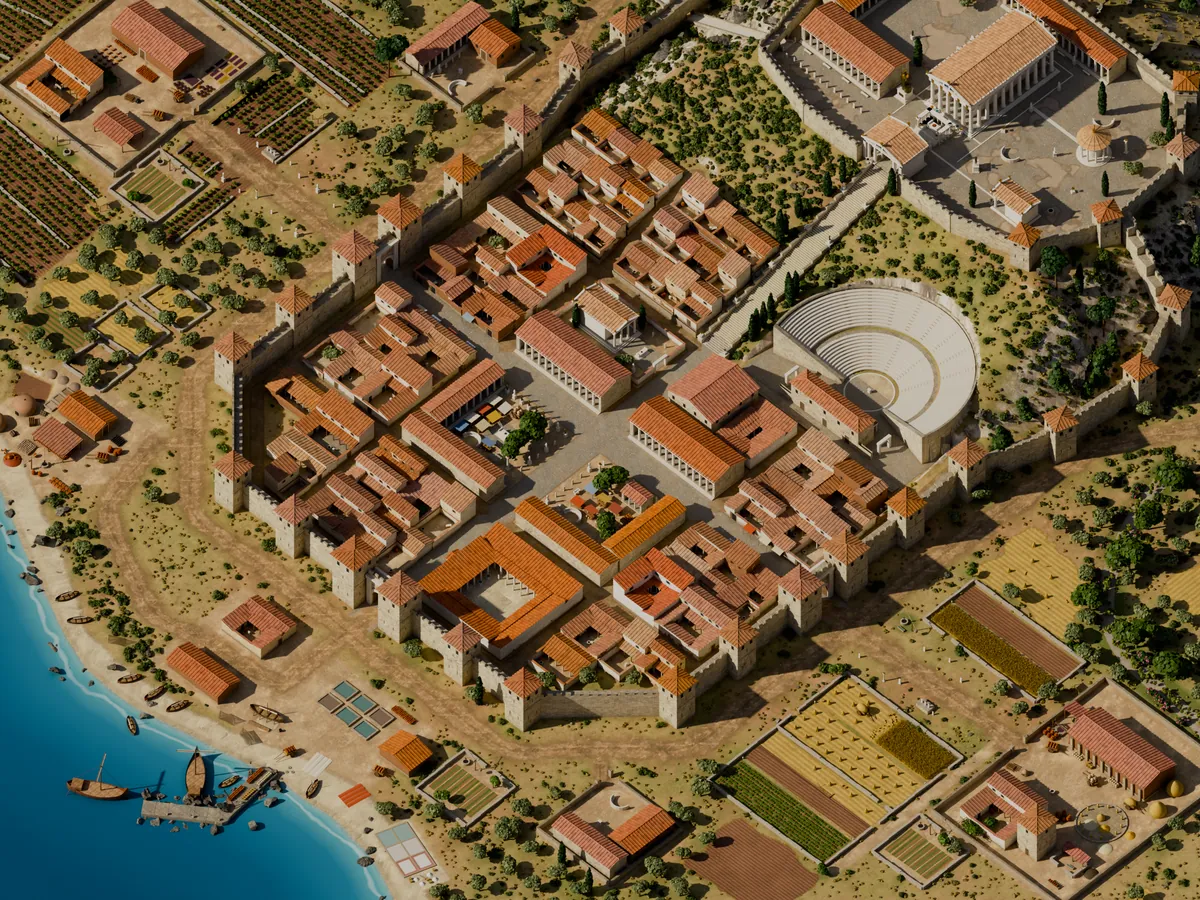
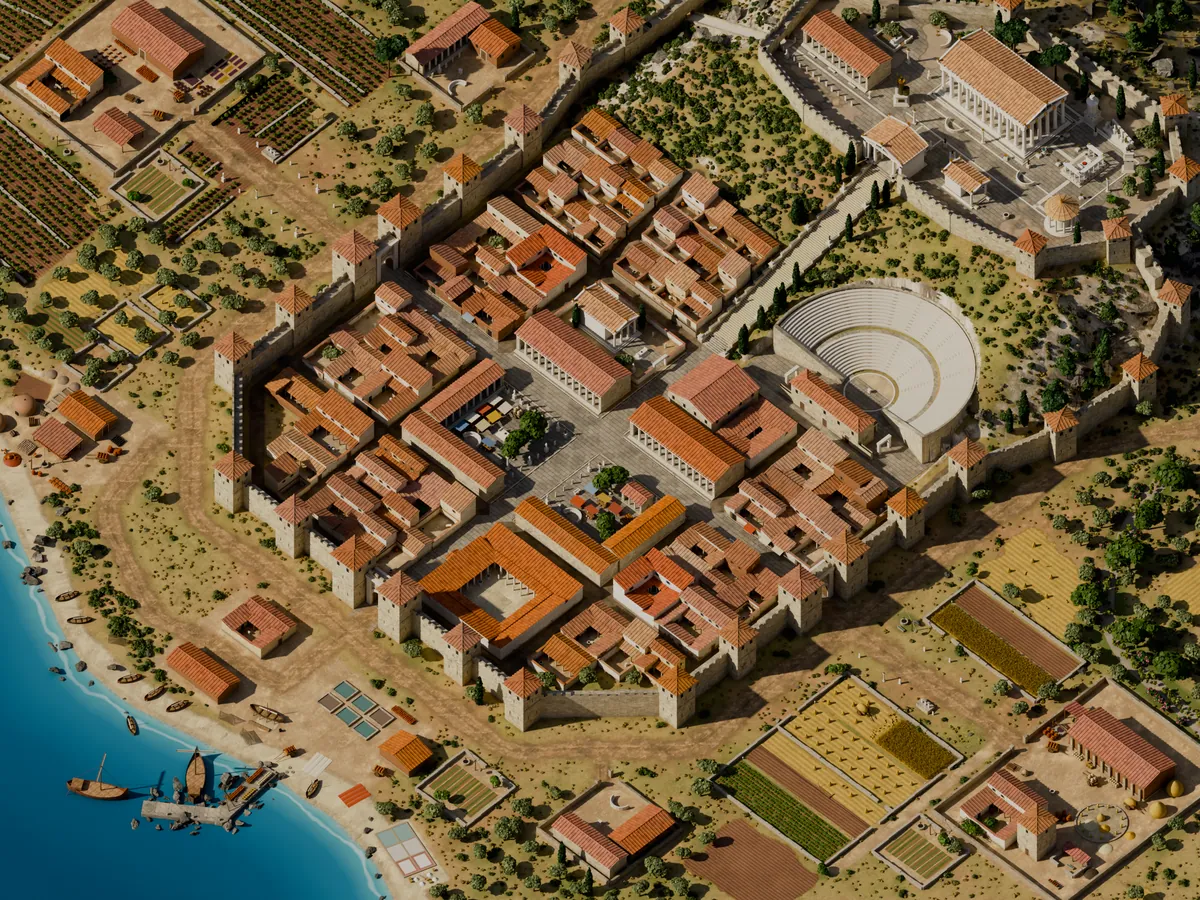
better roads

diff --git a/world/polis/land.py b/world/polis/land.py
@@ -399,39 +399,62 @@ def shore_material():
     return _finish(s, col, s.rng(s.madd(s.sub(fine, .5), .4, c1[0]), .4, .75), bump=.3)
 
 def road_material():
-    """Roads and paving: natural mud tracks with wandering grassy edges and ruts, packed earth in the streets, slabs on the avenues."""
+    """Roads and paving: mud tracks with wandering edges and ruts; rammed-earth/gravel secondary streets; dressed rectangular ashlar flagstones on main avenues and the agora."""
     s = Sh("roads"); M = s.mix; m = _maps(s); rd, c2 = m["road"], m["c2"]; fine = s.noise(.9, 4, .7)
     trod = s.tint(s.tex("dirt_aerial_03", 11), "dirt_aerial_03", lin("#bfa278"), raw=.2)
+
+    # Dressed rectangular limestone/marble flagstones in running-bond courses (for main avenues & agora plaza)
+    pw_f = s.mixv(.025, s.pos, s.noise(3.2, 3, .6, out="Color"))
+    bc, bf = s.brick(pw_f, 1.8, 1.1, .022, lin("#ded5c2"), lin("#c6bca6"), lin("#7b715f"), offset=.5, bias=.05, smooth=.12)
+    grain = s.tint(s.tex2("large_floor_tiles_02", 6.8), "large_floor_tiles_02", lin("#d5ccb8"), raw=.22, gain=1.35)
+    flag = M(.38, bc, s.mix(1.0, bc, grain, "MULTIPLY", clamp=False))
+    # Subtle weathering/dust in occasional patches so it looks lived-in, not sterile
+    flag_dust = s.tint(s.tex("dry_ground_rocks", 7.5), "dry_ground_rocks", lin("#c4b79b"), raw=.3)
+    flag = M(s.rng(s.noise(.22, 3, .65, w=5.8), .58, .78, 0, .28), flag, flag_dust)
+    h_flag = s.add(s.mul(s.sub(1.0, bf), .75), s.mul(s.lum(grain), .25))
+
+    # Rammed-earth & crushed-gravel for residential side streets and alleys
+    gravel_tex = s.tint(s.tex("gravelly_sand", 3.5), "gravelly_sand", lin("#b5a589"), raw=.25)
+    earth_tex = s.tint(s.tex("dry_ground_rocks", 7.5), "dry_ground_rocks", lin("#baa98b"), raw=.3)
+    pebble_tex = s.tint(s.tex("stony_dirt_path", 4.5), "stony_dirt_path", lin("#a99a7f"), raw=.22)
+    street = M(s.rng(s.noise(.32, 3, .65, w=4.4), .38, .66), earth_tex, gravel_tex)
+    street = M(s.rng(s.noise(.48, 3, .7, w=2.9), .46, .72, 0, .48), street, pebble_tex)
+    # Faint parallel wheel-rut tracks worn into wider secondary lanes
+    rut_st = s.rng(s.math("ABSOLUTE", s.sub(s.madd(s.sub(s.noise(1.6, 3, .6, w=5.1), .5), .12, rd[1]), .34)), .14, .02, 0, .28)
+    street = M(rut_st, street, s.mix(1.0, street, (.78, .73, .66), "MULTIPLY"))
+    # Slight damp/organic edge darkening along street margins
+    street = M(s.mul(s.rng(rd[1], .74, .98), s.rng(s.noise(1.6, 3, .7, w=6.1), .48, .72, 0, .35)), street, lin("#8f8864"))
+    h_street = s.add(s.add(s.mul(s.lum(gravel_tex), .45), s.mul(s.noise(4.5, 4, .75), .35)), s.mul(s.sub(1.0, rut_st), .2))
+
+    # Edge profiles: mud tracks wander widely; secondary dirt streets have soft natural edges; paved avenues stay crisp at their curbs
     wig = s.add(s.mul(s.sub(s.noise(.12, 3, .6, w=1.3), .5), 5.0), s.add(s.mul(s.sub(s.noise(.45, 4, .65, w=2.7), .5), 3.2), s.mul(s.sub(s.noise(1.9, 4, .7, w=4.1), .5), 1.4)))
-    soft = s.rng(rd[2], 0, .45, 1.0, .06)                                                 # mud road edges wander; streets & paving stay straight
+    soft = s.mixf(s.rng(rd[2], .75, .9), s.rng(rd[2], 0, .45, 1.0, .28), .04)
     e = s.madd(wig, soft, rd[0])
     is_mud = s.rng(rd[2], .05, .35, 1.0, 0.0)
+    is_av = s.rng(rd[2], .75, .92, 0.0, 1.0)
     e_mud = s.madd(s.mul(s.sub(s.noise(.75, 3, .7, w=9.2), .48), 2.2), is_mud, e)
-    on = s.mixf(is_mud, s.rng(e, .3, -.3), s.rng(e_mud, 1.1, -.7))
-    verge = s.mul(s.mul(s.rng(e_mud, 2.8, .1, 0, .55), s.rng(s.noise(.35, 3, .6, w=6.3), .35, .68)), s.rng(rd[2], 0, .5, 1.0, .2))
+    e_st = s.madd(s.mul(s.sub(s.noise(1.2, 3, .7, w=5.4), .5), .9), 1.0, e)
+    on_town = s.mixf(is_av, s.rng(e_st, .55, -.35), s.rng(e, .18, -.18))
+    on = s.mixf(is_mud, on_town, s.rng(e_mud, 1.1, -.7))
+    verge = s.mul(s.mul(s.rng(e_st, 2.0, .05, 0, .55), s.rng(s.noise(.35, 3, .6, w=6.3), .35, .68)), s.mul(s.sub(1.0, is_av), s.rng(rd[2], 0, .5, 1.0, .42)))
+
     mud_a = s.tint(s.tex("dirt_aerial_02", 8), "dirt_aerial_02", lin("#bfa277"), raw=.2)
     dirt = M(s.rng(s.noise(.25, 3, .65, w=2.1), .38, .65), mud_a, trod)
     gravel = s.tint(s.tex("stony_dirt_path", 5), "stony_dirt_path", lin("#bda47d"), raw=.2)
     dirt = M(s.rng(s.noise(.22, 3, .65, w=3.7), .48, .66, 0, .48), dirt, gravel)
     rut = s.rng(s.math("ABSOLUTE", s.sub(s.madd(s.sub(s.noise(1.8, 3, .6, w=5.1), .5), .22, rd[1]), .4)), .20, .03, 0, .38)
     dirt = M(rut, dirt, s.mix(1.0, dirt, (.68, .60, .52), "MULTIPLY"))
-    st_earth = s.tint(s.tex("dry_ground_rocks", 7.5), "dry_ground_rocks", lin("#c5ad84"), raw=.35)
-    st_cob = s.tint(s.tex("cobblestone_large_01", 7.0), "cobblestone_large_01", lin("#c4b79d"), raw=.45, gain=1.4)
-    street = M(s.rng(s.noise(.38, 3, .7, w=4.4), .46, .66, 0, .65), st_earth, st_cob)
-    drain_d = s.madd(s.sub(s.noise(1.5, 3, .6, w=3.1), .5), .12, rd[1])
-    street = M(s.mul(s.rng(drain_d, .14, .03, 0, .42), s.rng(s.noise(.35, 3, .6, w=1.7), .35, .65)), street, s.mix(1.0, street, (.62, .57, .5), "MULTIPLY"))
-    street = M(s.mul(s.rng(rd[1], .72, .98), s.rng(s.noise(1.6, 3, .7, w=6.1), .48, .72, 0, .38)), street, lin("#8d885f"))
-    slabs = s.tint(s.tex("stone_tiles_02", 7.2), "stone_tiles_02", lin("#cfc4ab"), raw=.35, gain=1.9)
-    slabs = M(s.rng(s.noise(.28, 3, .6, w=5.8), .4, .68, 0, .55), slabs, st_cob)
-    pav = M(s.rng(s.noise(.24, 3, .65, w=3.4), .46, .72, 0, .52), slabs, st_earth)
-    slabs = M(s.rng(s.noise(.35, 3, .7, w=8.8), .48, .72, 0, .58), slabs, street)         # earth trodden over the slabs in patches
-    rc = M(s.rng(rd[2], .2, .35), dirt, street); rc = M(s.rng(rd[2], .7, .85), rc, slabs)
-    paved = s.rng(s.madd(fine, .2, c2[0]), .45, .65)                                       # paving laid by builders: courts, the agora's margins, the sanctuary
-    col = M(on, trod, rc); col = M(s.mul(paved, s.sub(1.0, on)), col, pav)
-    crown = s.mul(s.rng(s.madd(s.sub(s.noise(1.2, 3, .65, w=7.7), .5), 1.1, rd[1]), .18, -.04, 0, .55), s.rng(rd[2], .1, .3, 1.0, 0.0))   # grass down the middle of a cart road
+
+    rc = M(s.rng(rd[2], .2, .35), dirt, street); rc = M(s.rng(rd[2], .75, .9), rc, flag)
+    paved = s.rng(s.madd(fine, .12, c2[0]), .45, .65)                                       # paving laid by builders: agora plaza, stoa aprons, sanctuary
+    col = M(on, trod, rc); col = M(s.mul(paved, s.sub(1.0, on)), col, flag)
+    crown = s.mul(s.rng(s.madd(s.sub(s.noise(1.2, 3, .65, w=7.7), .5), 1.1, rd[1]), .18, -.04, 0, .55), s.rng(rd[2], .1, .3, 1.0, 0.0))
     a = s.maxf(s.maxf(s.mul(on, s.sub(1.0, crown)), verge), paved)
-    hgt = s.add(s.mul(s.noise(.48, 4, .75), .55), s.mul(s.noise(1.5, 4, .7), .45))
-    return _finish(s, col, a, rough=.93, bump=.95, height=hgt)
+    h_town = s.mixf(s.maxf(is_av, paved), h_street, h_flag)
+    hgt = s.add(s.mul(s.noise(.48, 4, .75), .35), s.mul(s.noise(1.5, 4, .7), .25))
+    hgt = s.mixf(s.maxf(s.sub(1.0, is_mud), paved), hgt, s.add(s.mul(hgt, .2), s.mul(h_town, .8)))
+    rough = s.rng(s.add(s.mul(s.noise(2.8, 3, .6), .5), s.mul(s.lum(gravel_tex), .5)), .2, .8, .85, .96)
+    return _finish(s, col, a, rough=rough, bump=.95, height=hgt)
 
 def sea_material():
     s = Sh("sea")

diff --git a/world/polis/mats.py b/world/polis/mats.py
@@ -78,22 +78,18 @@ def m_marble(key, par):
     return s.surface(s.bsdf(col, .5, s.bump(s.noise(22, 3, .6), .08, .02)))
 
 def m_paving(key, par):
-    """Weathered stone flags: uneven joints, swept dust, lichen, and worn relief across courts and stylobates."""
-    s = Sh(key); base = col_of(par, "#cdc3ac")
-    tx = s.tex2("stone_tiles_02", 7.0); tx2 = s.tex2("large_floor_tiles_02", 6.8)
-    c_poly = s.tint(tx, "stone_tiles_02", base, raw=.3, gain=1.7)
-    c_slab = s.tint(tx2, "large_floor_tiles_02", base, raw=.25, gain=1.45)
-    col = s.mix(s.rng(s.noise(.22, 3, .6, w=2.3), .35, .65), c_poly, c_slab)
-    p_warp = s.mixv(.12, s.pos, s.noise(1.1, 3, .6, out="Color"))
-    bc, bf = s.brick(p_warp, 2.4, 1.8, .065, tuple(min(1, c * 1.08) for c in base), tuple(c * .84 for c in base), tuple(c * .58 for c in base), smooth=.35)
-    col = s.mix(.48, col, s.mix(1.0, col, bc, "MULTIPLY", clamp=False))
-    dust = s.tint(s.tex2("dry_ground_rocks", 7.5), "dry_ground_rocks", tuple(c * .86 for c in base), raw=.4)
-    col = s.mix(s.rng(s.noise(.18, 4, .65, w=3.1), .45, .72, 0, .55), col, dust)
-    col = s.mix(s.rng(s.noise(.25, 4, .6), .42, .74, 0, .35), col, s.mix(1.0, col, (.76, .7, .58), "MULTIPLY"))
-    moss = s.rng(s.noise(1.2, 4, .7, w=7.2), .60, .78, 0, .35)
-    col = s.mix(moss, col, lin("#878664"))
-    h = s.add(s.add(s.mul(s.lum(tx), .45), s.mul(s.lum(tx2), .35)), s.add(s.mul(bf, -.6), s.add(s.mul(s.noise(.55, 4, .7), .45), s.mul(s.noise(1.8, 4, .75), .35))))
-    return s.surface(s.bsdf(col, .9, s.bump(h, .95, .24)))
+    """Dressed rectangular limestone/marble flagstones: running-bond courses, tight thin joints, subtle edge chipping and dust."""
+    s = Sh(key); base = col_of(par, "#d4cbb6")
+    tx2 = s.tex2("large_floor_tiles_02", 6.8)
+    c_slab = s.tint(tx2, "large_floor_tiles_02", base, raw=.22, gain=1.35)
+    p_warp = s.mixv(.025, s.pos, s.noise(3.2, 3, .6, out="Color"))
+    bc, bf = s.brick(p_warp, 1.8, 1.1, .024, tuple(min(1, c * 1.07) for c in base), tuple(c * .88 for c in base), tuple(c * .58 for c in base), offset=.5, bias=.05, smooth=.14)
+    col = s.mix(.42, c_slab, s.mix(1.0, c_slab, bc, "MULTIPLY", clamp=False))
+    dust = s.tint(s.tex2("dry_ground_rocks", 7.5), "dry_ground_rocks", tuple(c * .88 for c in base), raw=.32)
+    col = s.mix(s.rng(s.noise(.2, 4, .65, w=3.1), .52, .76, 0, .35), col, dust)
+    col = s.mix(s.rng(s.noise(.25, 4, .6), .45, .75, 0, .28), col, s.mix(1.0, col, (.80, .74, .64), "MULTIPLY"))
+    h = s.add(s.mul(s.lum(tx2), .4), s.add(s.mul(s.sub(1.0, bf), .65), s.mul(s.noise(1.8, 4, .75), .2)))
+    return s.surface(s.bsdf(col, .88, s.bump(h, .9, .2)))
 
 def m_tile(key, par):
     """Fired clay roof tiles: every tile its own colour from the kiln, courses lapping, older roofs paler and greyer,

diff --git a/world/polis/civic.py b/world/polis/civic.py
@@ -232,9 +232,10 @@ def agora(g):
     land.paint("earth", sq, 1.0, 1.5); land.take(sq)
     stoa(-35.5, -35.5, -5.2, -29.0, "n", 3.9, va=.35); stoa(5.2, -35.5, 35.5, -29.0, "n", 3.9, va=.5)
     stoa(-35.5, -28.4, -29.3, -5.0, "e", 3.9, va=.6); stoa(29.3, -28.4, 35.5, -5.0, "w", 3.9, va=.25)
-    for r in (box(-29.3, -29.0, -5.2, -26.2), box(5.2, -29.0, 29.3, -26.2), box(-29.3, -28.4, -26.4, -5.0), box(26.4, -28.4, 29.3, -5.0)): land.paint("pave", r, 1.0, .8)
+    land.paint("pave", box(-29.3, -29.0, 29.3, -4.0), 1.0, .25)
     stoa(-35.5, 5.4, -5.2, 16.2, "s", 4.8, aisles=2, rooms=3.6, va=.3); stoa(5.2, 5.4, 35.5, 16.2, "s", 4.8, aisles=2, rooms=3.6, va=.45)
     land.paint("pave", box(-35.5, 4.0, 35.5, 5.6), 1.0, .5)
+    land.paint("pave", box(-5.5, 35.5, 5.5, 40.5), 1.0, .25)
     z = land.zt
     inst(props.ALTAR, -17, -17, z(-17, -17), 0, .62); land.paint("pave", rect(-17, -17, 8, 6), 1.0, 1.0)
     for i in range(9):                                                                    # honours along the street: bronzes of benefactors on their bases
@@ -311,6 +312,26 @@ def gymnasium(g):
     for y in (-53.0, -55.8): inst(props.BASIN, court[0] + 1.2, y, z0 + .02)
     for k in range(4): inst(props.HERM, 15.0 + k * 2.6, court[3] - 1.7, z0 + .02)
 
+def avenue_curbs():
+    """Dressed stone curbs (18 cm high) and stone-lined open drainage gutters along the main paved avenues."""
+    def strip(axis, pos, t0, t1, w, z_lo, z_hi, mat):
+        n = max(1, round((t1 - t0) / 2.5))
+        for i in range(n):
+            a, b = lerp(t0, t1, i / n), lerp(t0, t1, (i + 1) / n)
+            cx, cy = ((a + b) / 2, pos) if axis == "x" else (pos, (a + b) / 2)
+            z = land.zroute(cx, cy)[0]
+            if z is None: z = land.zt(cx, cy)
+            r = box(a, pos - w / 2, b, pos + w / 2) if axis == "x" else box(pos - w / 2, a, pos + w / 2, b)
+            prism(mat, mat, r, z + z_lo, z + z_hi, zb=z)
+    ew_segs = ((-74.0, -41.0), (-35.0, -4.5), (4.5, 35.0), (41.0, 74.0))
+    ns_segs = ((-74.0, -41.0), (-35.0, -4.5), (4.5, 35.0))
+    for axis, segs in (("x", ew_segs), ("y", ns_segs)):
+        for sgn in (-1, 1):
+            for t0, t1 in segs:
+                strip(axis, sgn * 4.05, t0, t1, .36, -.15, .18, STONE)          # raised dressed stone curb
+                strip(axis, sgn * 3.70, t0, t1, .24, -.04, .055, "dark:#4a4337") # stone-lined open drainage channel
+                strip(axis, sgn * 3.53, t0, t1, .11, -.04, .085, STONE)          # inner gutter lip
+
 def build(g):
     if land.HILL: theatre(g)
-    agora(g); north_quarter(g); gymnasium(g)
+    agora(g); avenue_curbs(); north_quarter(g); gymnasium(g)

diff --git a/world/polis/houses.py b/world/polis/houses.py
@@ -56,8 +56,8 @@ def house(x0, y0, x1, y1, g, streets=(), shops=(), z=None, door_side=None, door_
     """One courtyard house filling its lot. `streets` names the sides that face a street; `shops` those on an avenue."""
     lot = box(x0, y0, x1, y1); W, D = x1 - x0, y1 - y0; zlo = land.zmin(lot); z0 = land.pad(lot, z, blend=0, grow_by=.1); land.take(lot, .3)
     va = g.random(); decay = g.random() ** 2.4; wk = g.choice(PLASTER); tk = g.choice(TILE); tva = g.random(); kw = dict(va=va, vb=decay)
-    if z0 - zlo > .2: walls("rubble", grow(lot, .06), zlo - .6, z0 + .08)
-    cap(g.choice(("earth", "earth", "earth:#c9b592", "paving:#c4b89e")), lot, z0 + .03)
+    walls("rubble", grow(lot, .04), min(zlo, z0 - .25) - .35, z0 + .05)
+    cap(g.choice(("earth", "earth", "earth:#c9b592", "earth:#b6a68a")), lot, z0 + .03)
     h1 = g.uniform(2.9, 3.3); h2 = h1 + g.uniform(2.5, 2.9)
     if min(W, D) < 7.5 or W * D < 75:                                                    # a small house: one block of rooms and a yard
         if D >= W: bx = (x0, y1 - min(D * .55, 5.5), x1, y1); yard = (x0, y0, x1, bx[1])
@@ -128,7 +128,7 @@ def peristyle_house(x0, y0, x1, y1, g, door_side, z=None):
     """A rich man's house, as on Delos: two storeys round a colonnaded court paved in pebble mosaic."""
     lot = box(x0, y0, x1, y1); zlo = land.zmin(lot); z0 = land.pad(lot, z, blend=0, grow_by=.1); land.take(lot, .3)
     va = g.random(); wk = "plaster:#efe8d9"; tk = "tile:#b46c48"; tva = .15; kw = dict(va=va, vb=.03); h1, h2 = 3.5, 6.6; d = 4.0
-    if z0 - zlo > .2: walls("rubble", grow(lot, .06), zlo - .6, z0 + .08)
+    walls("rubble", grow(lot, .04), min(zlo, z0 - .25) - .35, z0 + .05)
     cap("paving:#d6cdb8", lot, z0 + .03)
     cx0, cy0, cx1, cy1 = x0 + d, y0 + d, x1 - d, y1 - d
     for bx, low, hh in (((x0, y1 - d, x1, y1), "s", h2), ((x0, y0, x0 + d, y1 - d), "e", h2), ((x1 - d, y0, x1, y1 - d), "w", h1), ((x0 + d, y0, x1 - d, y0 + d), "n", h1)):
